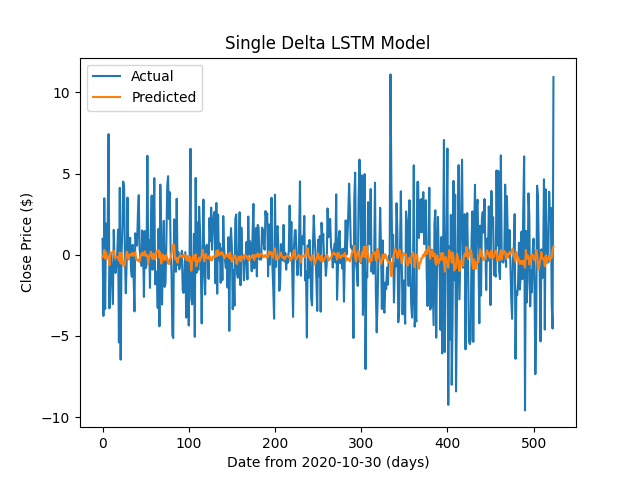
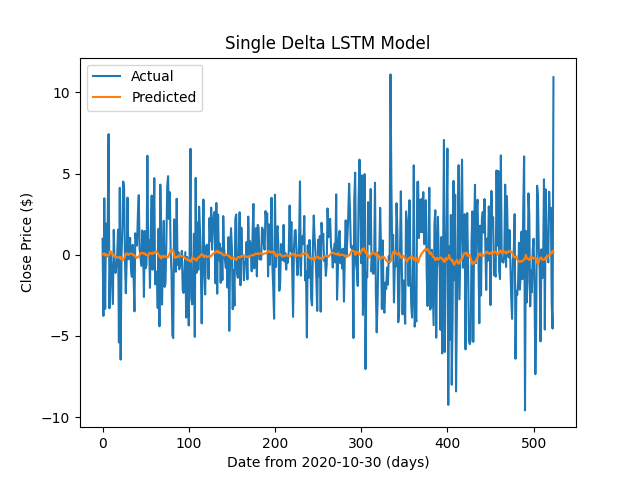
created multi_lstm
finished building multi_lstm model. however, its output data isn't scaled properly

Changed region(s): [[0.1562, 0.5, 0.875, 0.5625]]

diff --git a/multi_lstm.py b/multi_lstm.py
@@ -1,0 +1,58 @@
+from pandas_datareader import data as pdr
+import matplotlib.pyplot as plt
+import yfinance as yf
+import pandas as pd
+import numpy as np 
+import seaborn as sns
+from datetime import datetime
+from sklearn.preprocessing import MinMaxScaler # for data scaling
+from keras.models import Sequential
+from keras.layers import Dense, LSTM
+from keras.callbacks import EarlyStopping
+
+def multi_model_train(x_train, y_train, features_lstm = 128, features_dense = 25, optimizer = 'Adam', max_epochs=20, batch_size=1, learning_rate=0.001, clipvalue=1.0):
+    if np.any(np.isnan(x_train)) or np.any(np.isnan(y_train)):
+        print("NaN values found in training data. Please clean your data.")
+        return None
+    if np.any(np.isinf(x_train)) or np.any(np.isinf(y_train)):
+        print("Inf values found in training data. Please clean your data.")
+        return None
+
+    model = Sequential()
+    model.add(LSTM(features_lstm, return_sequences=False, input_shape=(x_train.shape[1], x_train.shape[2])))
+    model.add(Dense(features_dense))
+    model.add(Dense(1))
+
+    model.compile(optimizer=optimizer, loss='mean_squared_error')
+
+    early_stopper = EarlyStopping(monitor='loss', patience=5, verbose=1)
+
+    model.fit(x_train, y_train, batch_size=batch_size, epochs=max_epochs, callbacks=[early_stopper])
+
+    return model
+
+def predict_multi_model(model, x_test, scaler):
+    # Get the models predicted price values 
+    predictions = model.predict(x_test) 
+
+    return predictions
+
+def analyze_multi(y_test, predictions, features_lstm = 128, features_dense = 25, optimizer = 'Adam', max_epochs = 1, batch_size=1, learning_rate=0.001, clipvalue=1.0):
+    rmse = 0
+    sz = len(predictions)
+    for i in range(sz):
+        rmse += (predictions[i] - y_test[i]) ** 2
+    rmse = np.sqrt(rmse / sz)
+
+    print(f'Root Mean Square Error: {rmse}')
+
+    with open('results/results_multi_model.txt', 'a') as f:
+        f.write(f'rmse: {rmse} - features_lstm: {features_lstm}, feature_dense: {features_dense}, optimizer: {optimizer}, batch_size: {batch_size}, learning_rate: {learning_rate}, clipvalue: {clipvalue}\n')
+
+    plt.plot(y_test, label='Actual')
+    plt.plot(predictions, label='Predicted')
+    plt.legend()
+    plt.title('Multi LSTM Model')
+    plt.xlabel('Date from 2020-10-30 (days)')
+    plt.ylabel('Close Price ($)')    
+    plt.savefig('images/results_multi_model_predicting_delta(1).png')

diff --git a/main.py b/main.py
@@ -16,6 +16,10 @@ from single_delta_lstm import single_delta_model_train
 from single_delta_lstm import predict_single_delta
 from single_delta_lstm import analyze_single_delta
 
+from multi_lstm import multi_model_train
+from multi_lstm import predict_multi_model
+from multi_lstm import analyze_multi
+
 from datetime import datetime
 from tensorflow.keras.models import load_model
 import pandas as pd
@@ -100,16 +104,43 @@ def multi_model():
 
     combined_list = []
     for stock, delta in zip(stock_list, delta_1_list):
-        combined_list.append(stock)
-        combined_list.append(delta)
+        combined_list.append(stock.filter(['Close']))
+        combined_list.append(delta.filter(['Close']))
 
-    x_train, y_train, x_test, y_test, scalar = modify_df(combined_list, training_dataset_percentage=0.8, x_train_len=60)
+    apple_delta = delta_1_list[0].filter(['Close'])
+
+    x_train, y_train, x_test, y_test, scalar = modify_df(combined_list, apple_delta, training_dataset_percentage=0.8, x_train_len=60)
+    print(f'y_train: {y_train}')
+    print(f'y_test: {y_test}')
+
+
+    model_params = {
+        'features_lstm': 10,
+        'max_epochs': 20,
+        'batch_size': 5,
+        'learning_rate': 0.001,
+        'clipvalue': 1.0,
+        'optimizer' : 'Adagrad'
+    }
+
+    model = multi_model_train(x_train, y_train, **model_params)
+
+    #save the model in results
+    model.save('model_trained/multi_model.keras')
+
+    #model_path = 'model_trained/multi_model.keras'
+    #model = load_model(model_path)
+
+    predictions = predict_multi_model(model, x_test, scalar)
+
+    analyze_multi(y_test, predictions, **model_params)
+
 
 def main():
     #data_analysis()
     #single_model()
-    single_delta_model()
-    #multi_model()
+    #single_delta_model()
+    multi_model()
 
 if __name__ == '__main__':
     main()

diff --git a/data_processing.py b/data_processing.py
@@ -36,38 +36,43 @@ def delta_df(stock_list, stock_name, delta_num):
 
     return delta_list
     
-def modify_df(stock_list, training_dataset_percentage, x_train_len):
-    # Create a new dataframe with only the 'Close' column
-    data = stock_list.filter(['Close'])
+def modify_df(stock_list, output_data, training_dataset_percentage, x_train_len):   
+    len_data = len(stock_list[0])
+
+    data = pd.concat(stock_list, axis=1)
     dataset = data.values
-    training_data_len = int(np.ceil(len(dataset) * training_dataset_percentage))
+    output_dataset = output_data.values
+
+    training_data_len = int(np.ceil(len_data * training_dataset_percentage))
 
     # Scale the data using MinMaxScaler
     scaler = MinMaxScaler(feature_range=(0, 1))
     scaled_data = scaler.fit_transform(dataset)
 
+    print(output_dataset)
+    
     training_data = scaled_data[0:training_data_len, :]
     x_train = []
     y_train = []
 
     for i in range(x_train_len, training_data_len):
         x_train.append(training_data[i - x_train_len:i, :])
-        y_train.append(training_data[i, 0])
+        y_train.append(output_dataset[i])
         
     x_train, y_train = np.array(x_train), np.array(y_train)
 
     # Create the testing data set
     test_data = scaled_data[training_data_len - x_train_len: , :]
     x_test = []
-    y_test = dataset[training_data_len:, :]
+    y_test = []
     for i in range(x_train_len, len(test_data)):
         x_test.append(test_data[i-x_train_len:i, :])
+        y_test.append(output_dataset[i])
         
     # Convert the data to a numpy array
-    x_test = np.array(x_test)
-
+    x_test, y_test = np.array(x_test), np.array(y_test)
+    
     return x_train, y_train, x_test, y_test, scaler
-
 
 def create_graph_close(stock_name, company_list):
     plt.figure(figsize=(15, 10))

diff --git a/single_lstm.py b/single_lstm.py
@@ -29,6 +29,8 @@ def modify_df_singular(df, training_dataset_percentage, x_train_len):
     # Create a new dataframe with only the 'Close' column
     data = df.filter(['Close'])
     dataset = data.values
+
+    print(f'type of dataset: {type(dataset)}')
     training_data_len = int(np.ceil(len(dataset) * training_dataset_percentage))
 
     # Scale the data using MinMaxScaler

diff --git a/README.md b/README.md
@@ -11,6 +11,8 @@ Apple Opening Price, Closing Price - Opening Price
 MADA
 Nasdaq
 CBOE Volatility Index (VIX)
+DX-Y.NYB (Dollar index)
+
 
 # Hyperparameter Tuning
 This project compared rmse errors to find the best hyperparameters that work the best. First, hyperparameters for training process was tuned. Then, the parameters for the neural network itself was tuned. 
